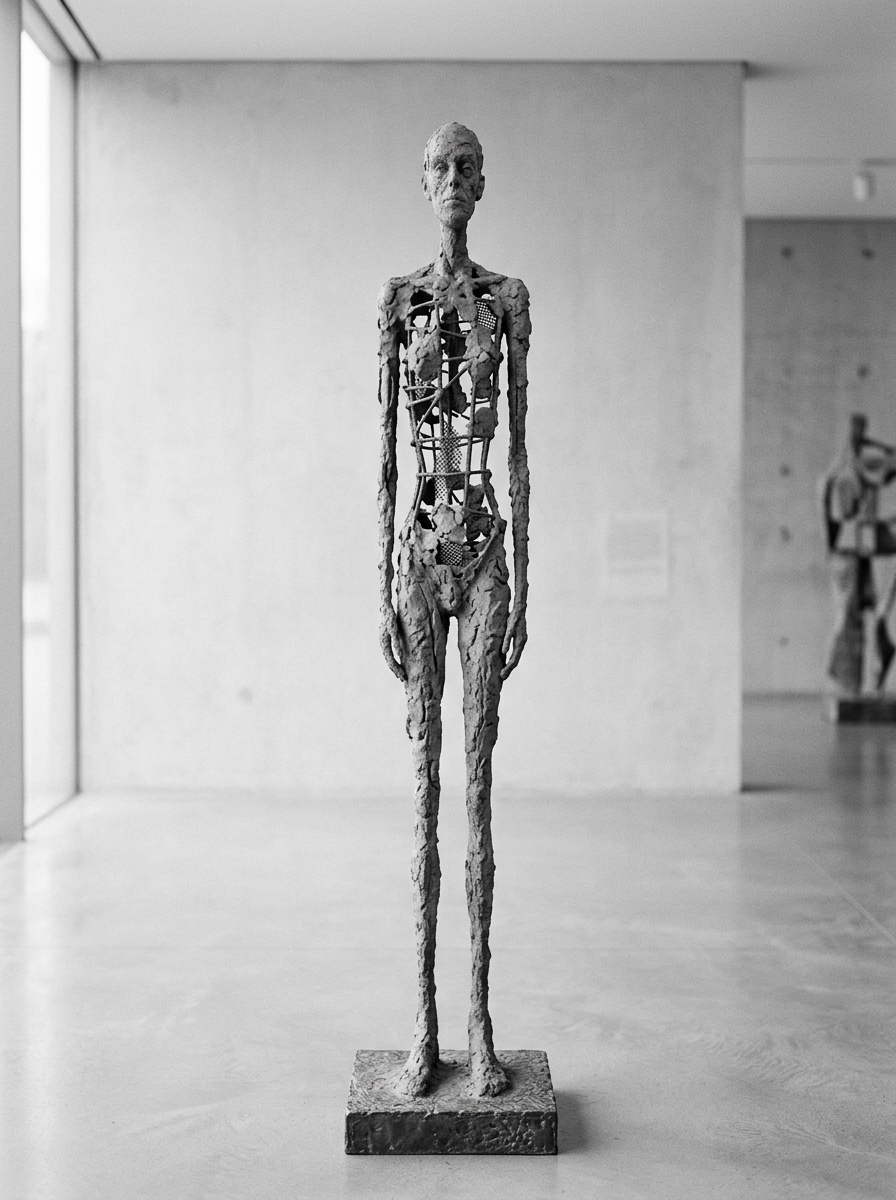
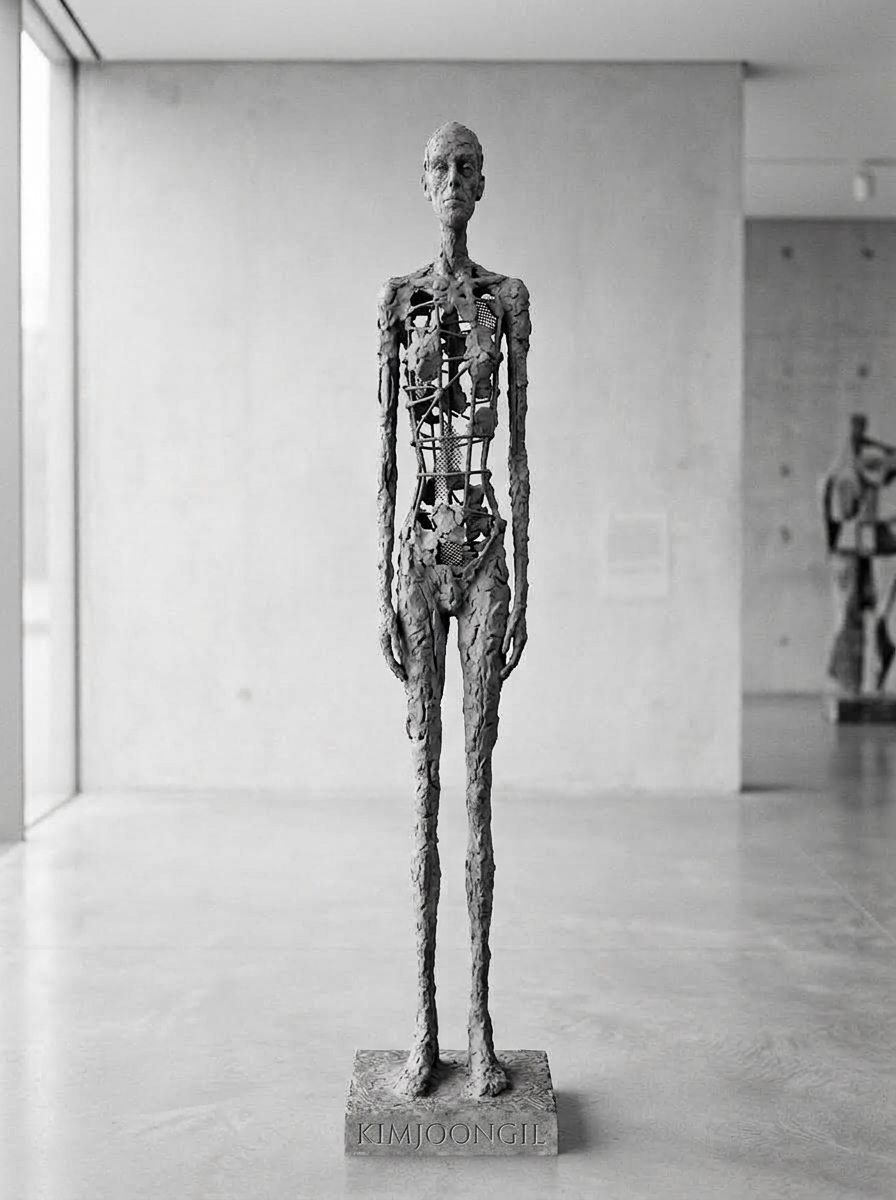
UI: Replace 5 sculptures with their signed/engraved versions

diff --git a/index.html b/index.html
@@ -444,7 +444,7 @@
     </div>
     <div class="toc-overlay" onclick="closeTOC()"></div>
 
-    <script src="book_data.js?v=20242241"></script>
+    <script src="book_data.js?v=20242242"></script>
     <script>
       let currentChapter = 0;
       let currentColumn = 0;
